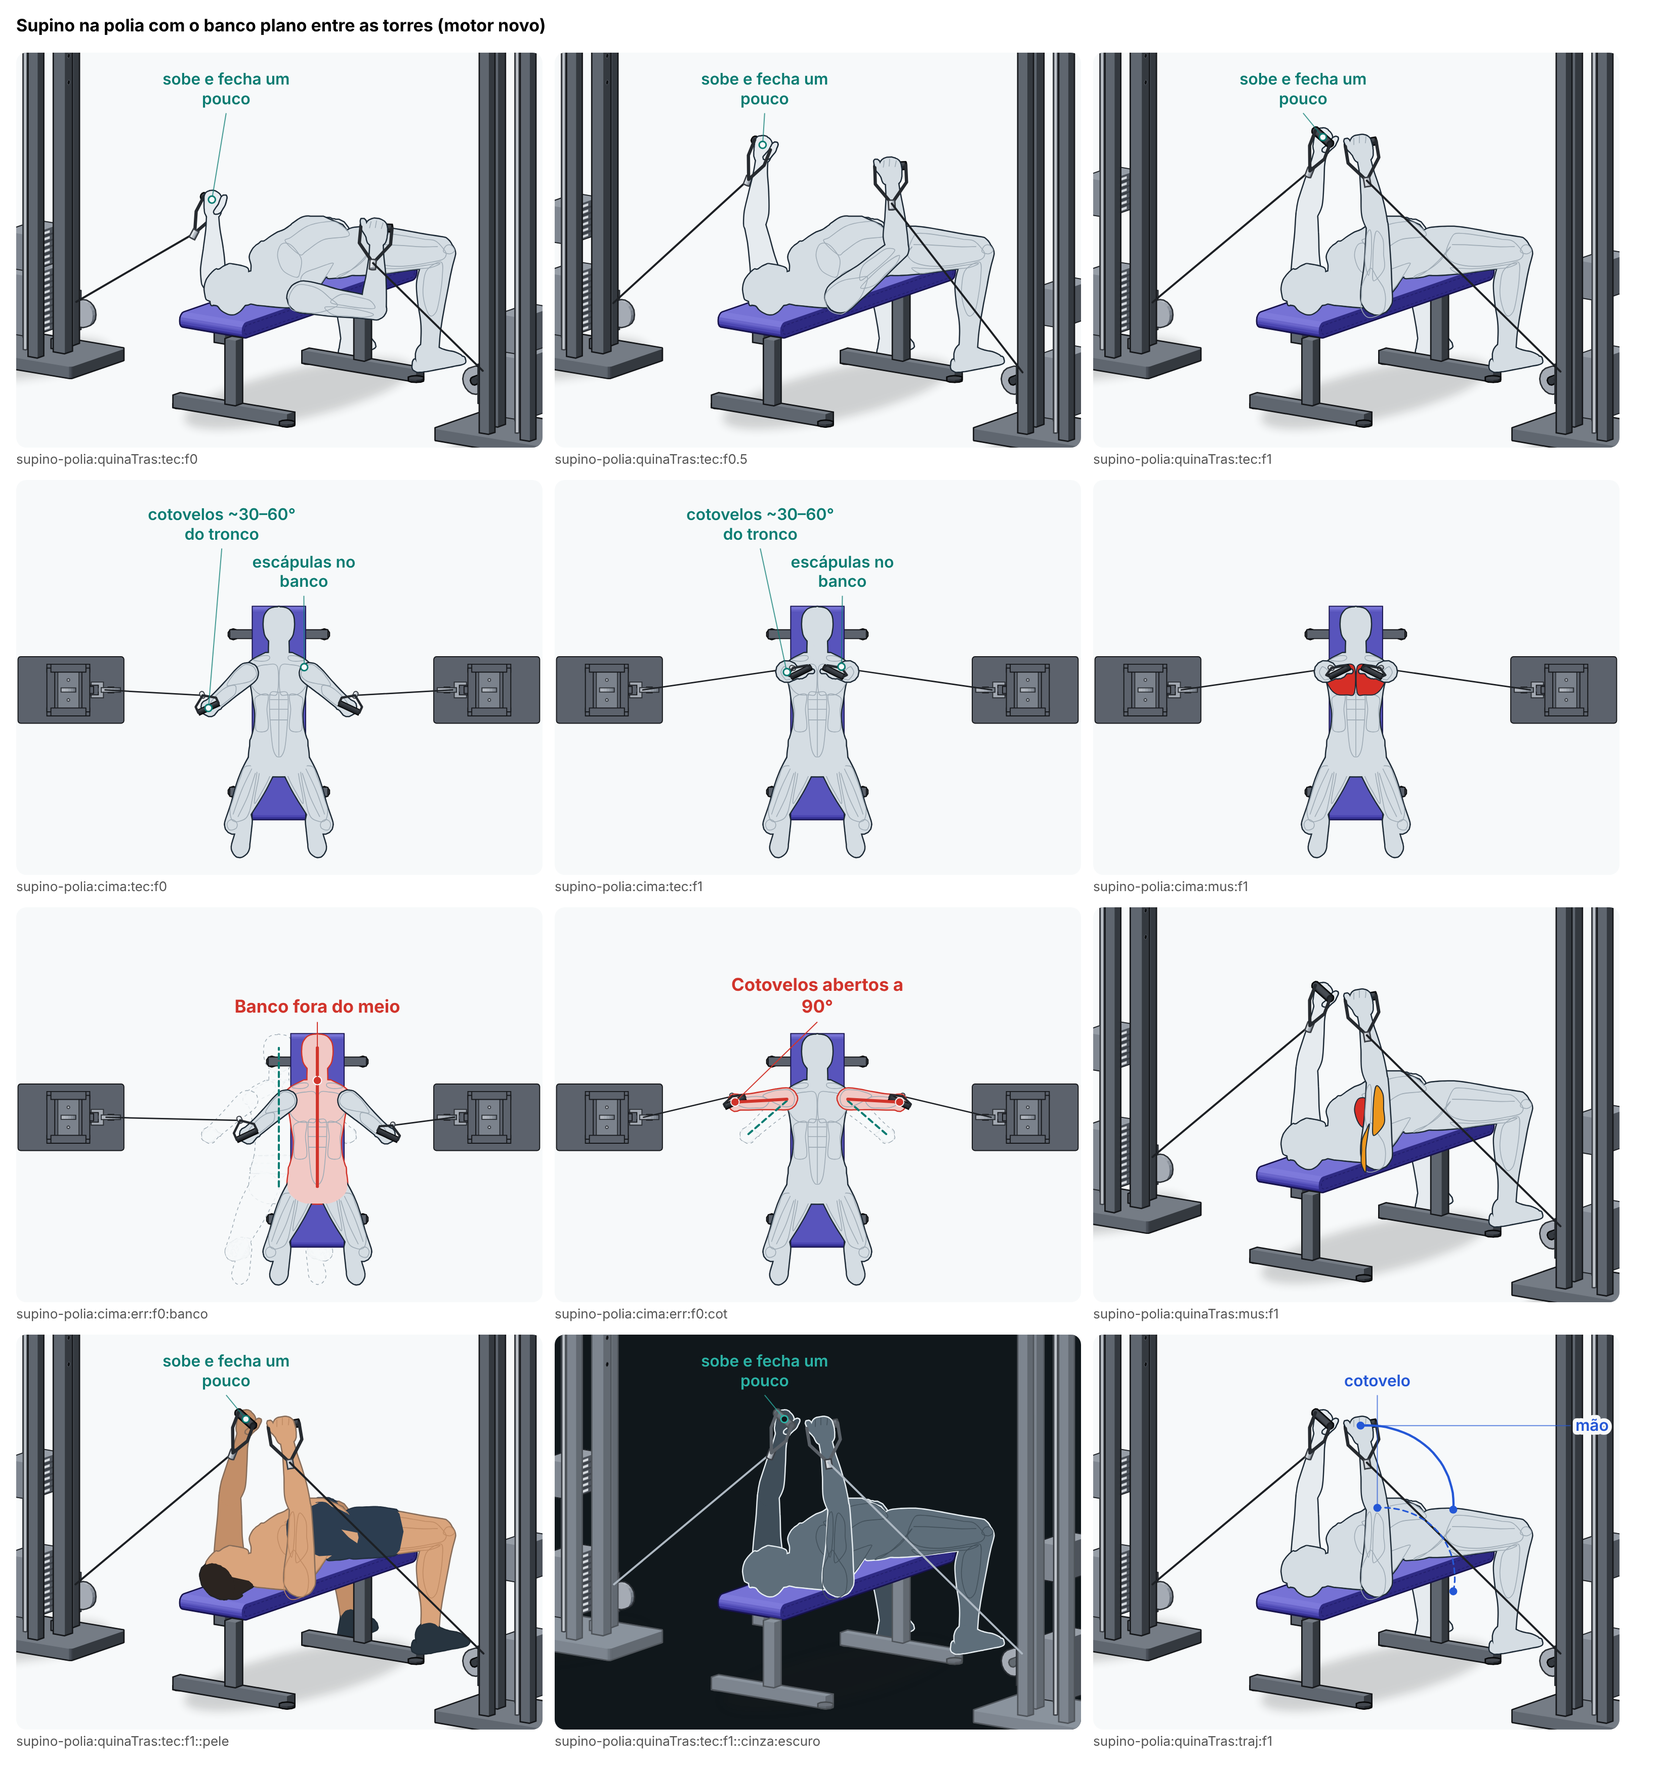
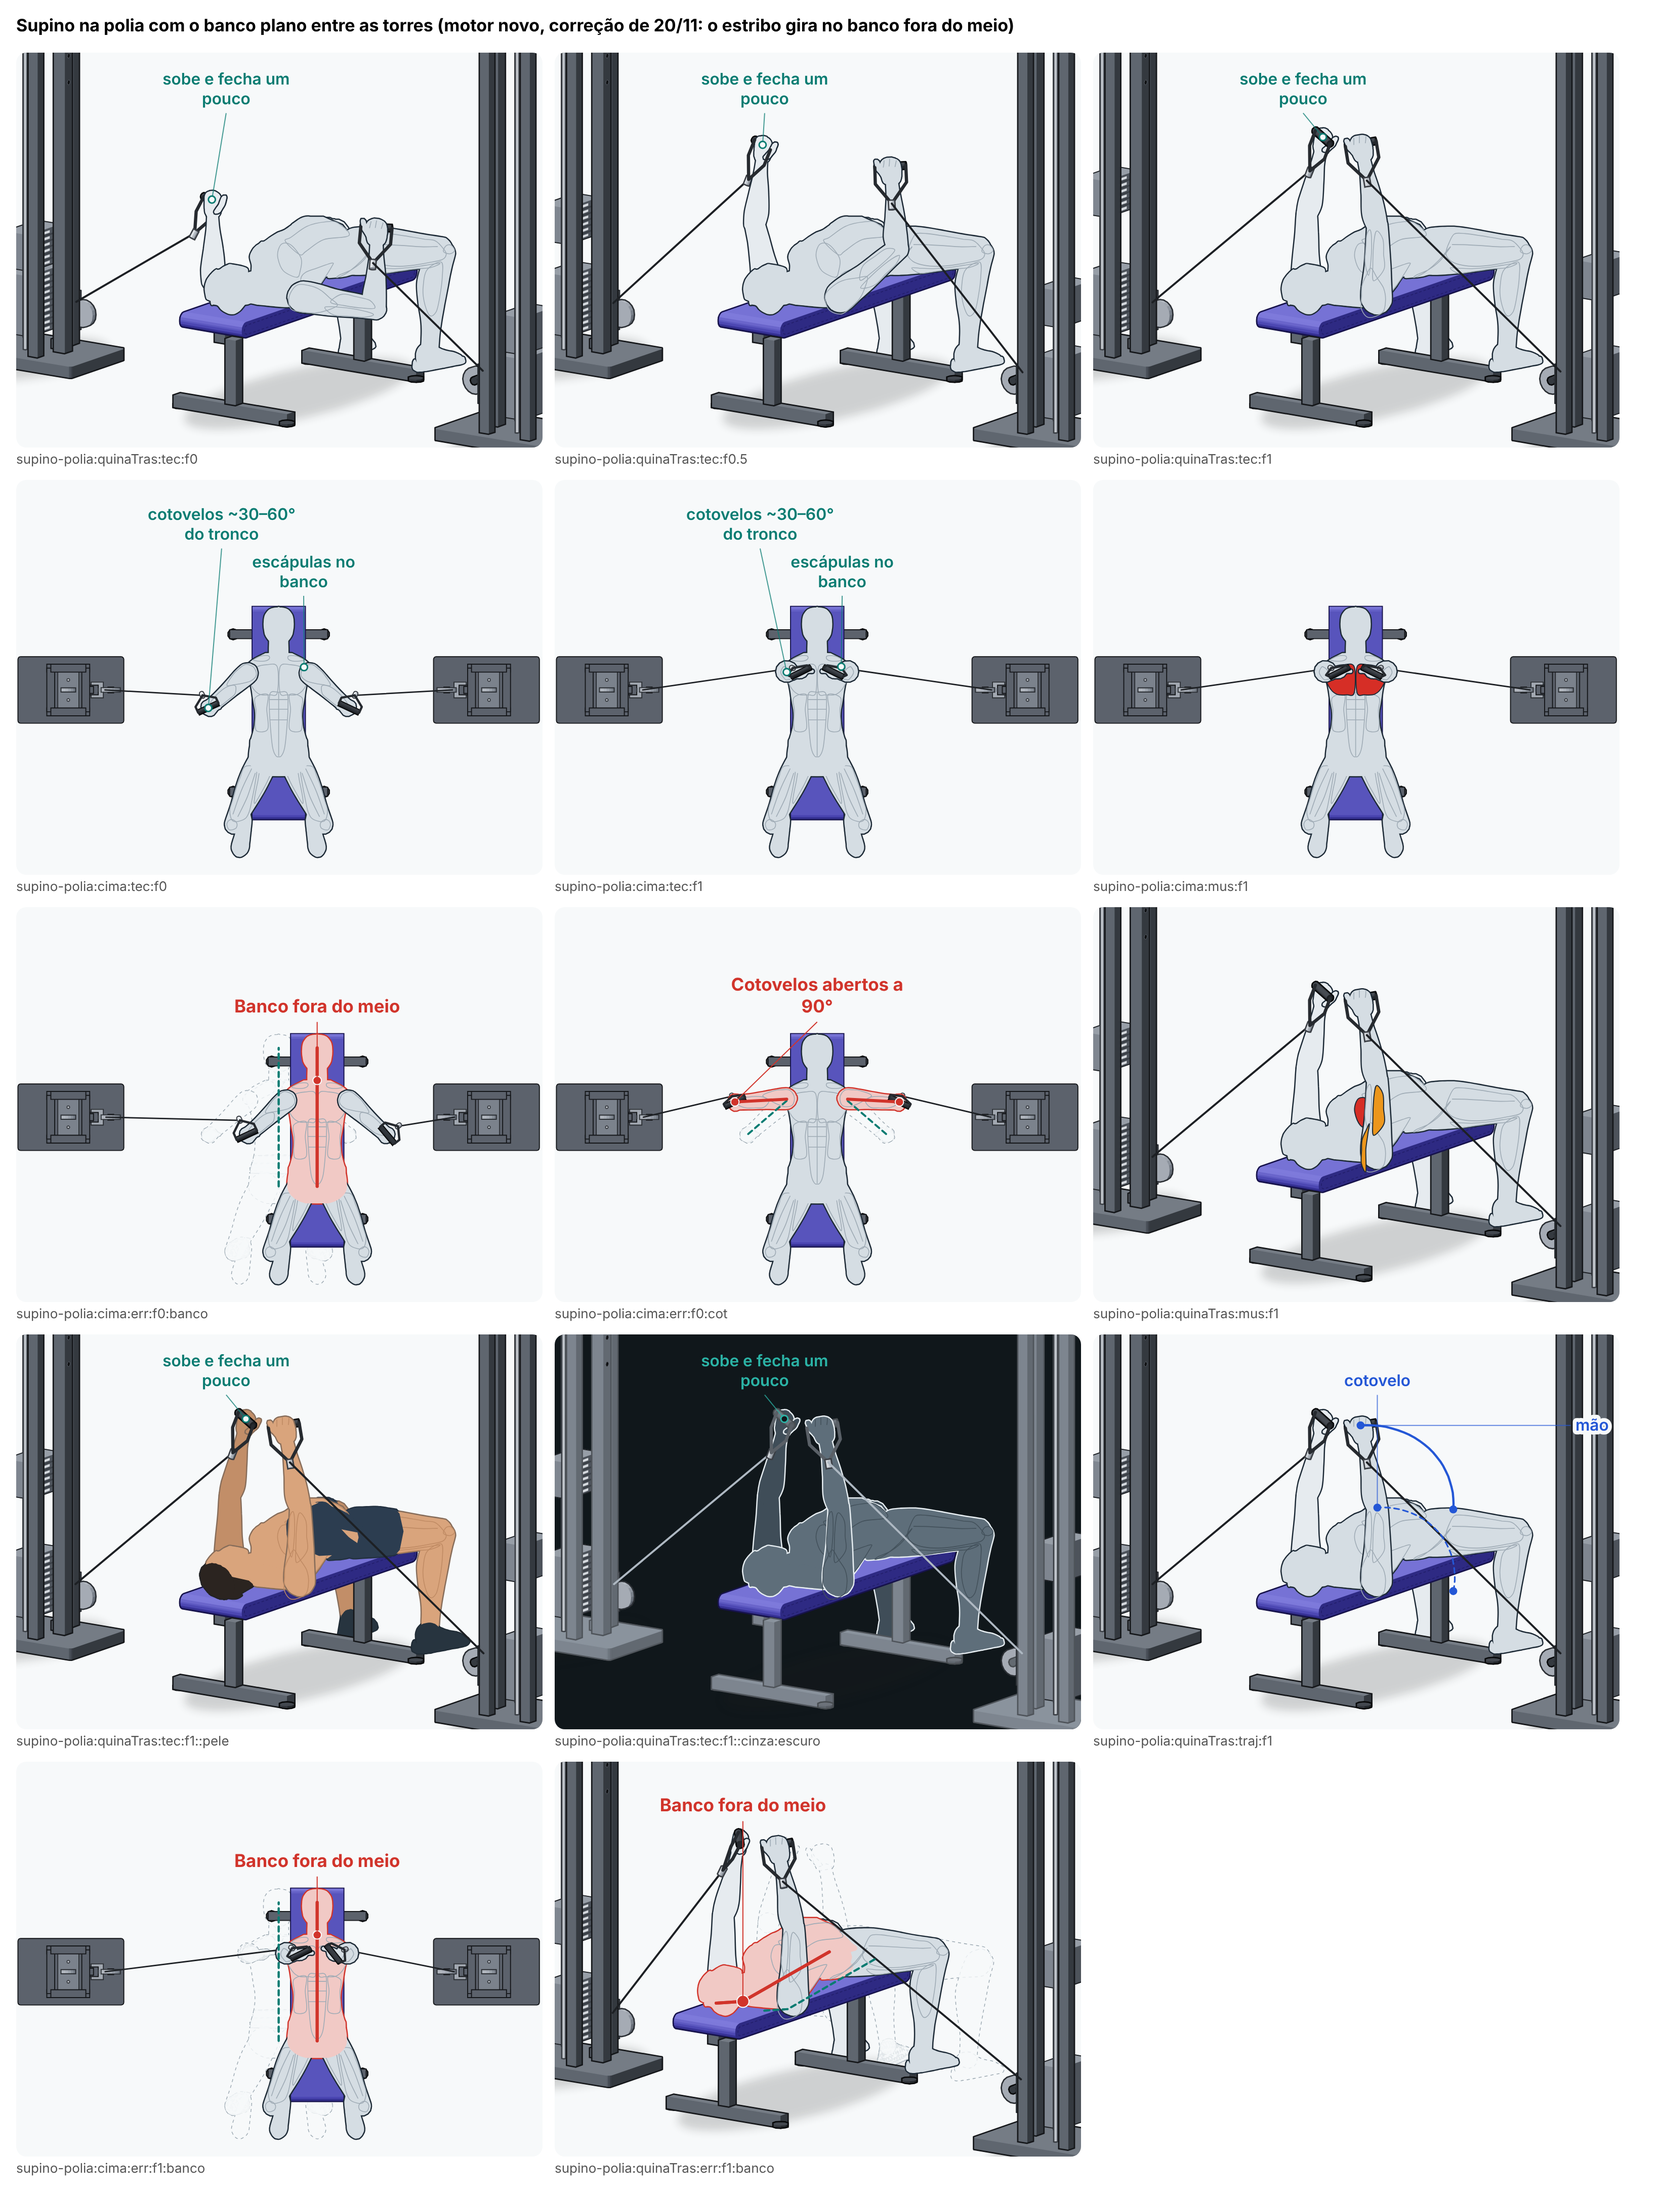
Gira o estribo para o lado do cabo no banco fora do meio do supino na polia
No erro "Banco fora do meio", com a torre da esquerda mais perto, o cabo
sobe mais em pé, rente ao antebraço; o estribo só gira em volta da
pegada, o elo ficava junto do punho, e a fita e o cabo entravam 1,2 cm no
antebraço esquerdo no topo. Nesse erro, a mão do lado mais perto gira o
estribo para o lado do cabo (erro.banco.giro, as palmas a 50°; no certo,
25°) e o cabo passa por fora do antebraço (a 1,1 cm da pele). O banco
continua 22 cm fora do meio. O núcleo polia-banco.ts lê a linha só na
ficha que a tem. A ficha liga cabos-fora-do-corpo-nos-erros.

Claude-Session: https://claude.ai/code/session_01YRzts8DBGbsca9onebcMt1

diff --git a/src/engine/novo/exercicios/polia-banco.ts b/src/engine/novo/exercicios/polia-banco.ts
@@ -127,7 +127,7 @@ export function criarSupinoNaPolia(fichaJson: unknown, banco: BancoDoSupino): Su
   }
 
   /* ------------------------------ o braço ------------------------------ */
-  function braco(t: Tronco, k: Lado, u: number, doTronco: number): PoseBraco {
+  function braco(t: Tronco, k: Lado, u: number, doTronco: number, giroDaPegada = f('pegada.giro')): PoseBraco {
     const s = sinal(k);
     const baixo = umeroEmbaixo(t, s, doTronco, f('braco.baixo'));
     const topo = norm([s * Math.sin(f('topo.abre') * rad), Math.cos(f('topo.abre') * rad), 0]);
@@ -138,7 +138,7 @@ export function criarSupinoNaPolia(fichaJson: unknown, banco: BancoDoSupino): Su
     const a = doTronco * rad;
     // o cotovelo aponta para fora e para os pés, um pouco para baixo do plano do peito
     const polo = norm(add(add(mul(fora, Math.sin(a)), mul(pes, Math.cos(a))), mul(peito, -0.2)));
-    const giro = f('pegada.giro') * rad;
+    const giro = giroDaPegada * rad;
     const polegar = norm([-s * Math.cos(giro), 0, -Math.sin(giro)]);
     return { umero, antebraco, polo, mao: { polegar, forma: 'pegada', diam: obj('estribo', 'pegadaDiam') }, prot: -f('escapula.retracao'), elev: -f('escapula.depressao') };
   }
@@ -149,7 +149,12 @@ export function criarSupinoNaPolia(fichaJson: unknown, banco: BancoDoSupino): Su
     // as costas saem do encosto enquanto a carga sobe (e voltam na descida)
     const b = banco === 'reto' ? deitado(corpo, dx) : sentadoNoBanco(corpo, dx, erro === 'costas' ? suave(x) : 0);
     const doTronco = erro === 'cot' ? f('erro.cot.doTronco') : f('cotovelos.doTronco');
-    const e = resolverMembros(b.t, { R: braco(b.t, 'R', x, doTronco), L: braco(b.t, 'L', x, doTronco) }, b.pernas);
+    // correção de 20/11/2026: no erro "banco fora do meio", o cabo do lado da torre mais perto sobe mais em pé, rente ao
+    // antebraço, e entrava nele (1,2 cm no banco plano e 1,7 cm no inclinado, no topo); a mão desse lado gira o estribo
+    // para o lado do cabo (`erro.banco.giro`, na ficha que tem a linha), e o elo e o cabo passam por fora do antebraço
+    const perto: Lado = f('erro.banco.desvio') > 0 ? 'L' : 'R';
+    const giro = (k: Lado) => (erro === 'banco' && k === perto && F.param['erro.banco.giro'] ? f('erro.banco.giro') : f('pegada.giro'));
+    const e = resolverMembros(b.t, { R: braco(b.t, 'R', x, doTronco, giro('R')), L: braco(b.t, 'L', x, doTronco, giro('L')) }, b.pernas);
     return { e, b };
   }
 

diff --git a/docs/revisoes/animacao-nova/lote-A5/supino-polia.md b/docs/revisoes/animacao-nova/lote-A5/supino-polia.md
@@ -62,3 +62,23 @@ Não há correção registrada para este exercício em `correcoes-ja-feitas.md` 
 - **No quadro de baixo (f0), de três quartos**, o antebraço de longe passa sobre a barriga e o de perto fica junto da cabeça: é o ângulo, não a pose (a pose medida é a do supino reto).
 - **No erro do banco fora do meio**, o cabo do lado de perto continua reto embaixo, quando na vida real afrouxaria (ver acima).
 - **O antebraço passa a 2 cm do cabo** embaixo: não encosta, mas fica perto.
+
+## Correção de 20/11 (fio ou peso dentro do corpo)
+
+A conferência dos fios (`conferir-pintura.ts`, tolerância de 1 cm) acusava **o cabo e a fita do estribo 1,2 cm dentro do antebraço esquerdo** no erro "Banco fora do meio", no topo (u = 1).
+
+**A causa, medida.** No erro, o banco e o corpo vão 22 cm para a esquerda: a roldana da esquerda fica a 65 cm da mão na horizontal (no certo, 87 cm), e o cabo dela sobe mais em pé, a uns 43° da vertical, rente ao antebraço esquerdo, que no topo desce do punho para fora a 14° da vertical. O estribo pende para o lado do cabo, mas só pode girar em volta da pegada: com as palmas a 25° uma para a outra (a pegada do certo), a pegada fica quase de lado a lado, a parte do cabo que vai para fora não conta, e o elo fica quase embaixo da mão, junto do punho. Dali, a fita e o cabo atravessavam o antebraço de 7 a 9 cm do punho. Diminuir o desvio não resolvia bem: com o banco 12 cm fora do meio, o cabo ainda entrava 0,6 cm (e a regra pede até 0,5).
+
+**A mudança.** No erro, a mão do lado da torre mais perto (a esquerda) gira o estribo para o lado do cabo: as palmas a 50° (`erro.banco.giro`; no certo e na mão direita, 25°). O estribo pende mais para fora, o elo sai do lado do antebraço, e o cabo passa por fora dele. O banco continua 22 cm fora do meio (o erro não diminuiu); o resto do corpo, o ciclo e o outro erro não mudam. O núcleo `polia-banco.ts` (só destes dois supinos) lê a linha apenas na ficha que a tem.
+
+| medido (homem) | antes | depois |
+|---|---|---|
+| o cabo e a fita do estribo dentro do antebraço esquerdo, conferência dos fios (erro "Banco fora do meio", u = 1) | 1,2 cm | 0 (nada além da tolerância) |
+| regra `cabos-fora-do-corpo-nos-erros`, erro "Banco fora do meio" | entra 1,2 cm (a fita, no antebraço esquerdo) | passa a no mínimo 1,1 cm da pele |
+| a mesma regra, erro "Cotovelos abertos a 90°" | entra 0,2 cm | entra 0,2 cm |
+| pintura: achados e área somada | 6, 29,2 cm² | 6, 28,9 cm² |
+
+A ficha liga `cabos-fora-do-corpo-nos-erros`: no estado de antes ela falha; no de agora, passa. Na pintura, nenhum achado cresceu (o braço esquerdo de cima, por cima do cabo, passou de 2,3 para 2 cm²). O antes e depois está em `../correcao-das-antigas/supino-polia-fio-ou-peso.png`; os quadros grandes foram regravados com o erro também no topo (`cima:err:f1:banco` e `quinaTras:err:f1:banco`) e olhados de cima e de três quartos, nos dois braços. A conferência automática dá **1 falha e 2 avisos** (antes: 2 falhas, a de fios e a de pintura, e 2 avisos); a de pintura é a de antes. O enquadramento de cima mudou menos de 0,2 cm (o estribo girado).
+
+**O que ainda não ficou bom.**
+- De cima, no erro, os dois estribos ficam em ângulos diferentes (a esquerda a 50°, a direita a 25°). É pequeno, e cabe no erro ("um lado puxa mais que o outro"), mas não é algo que a ficha da técnica descreva.
